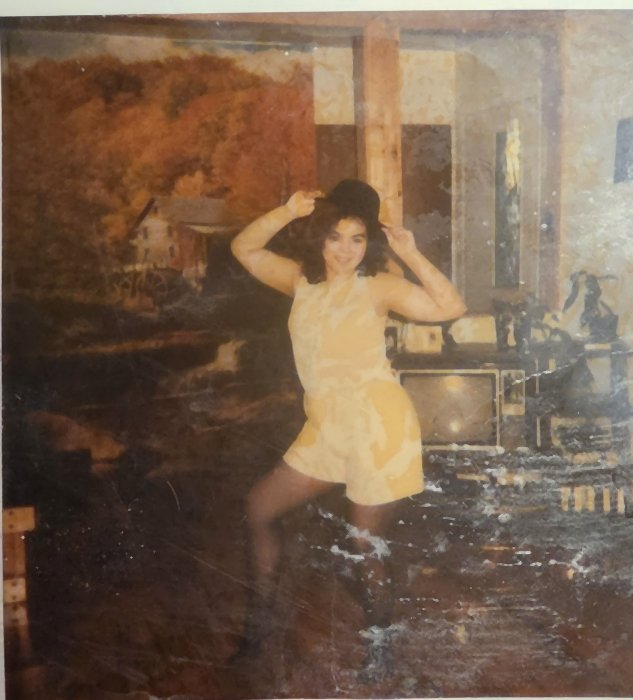
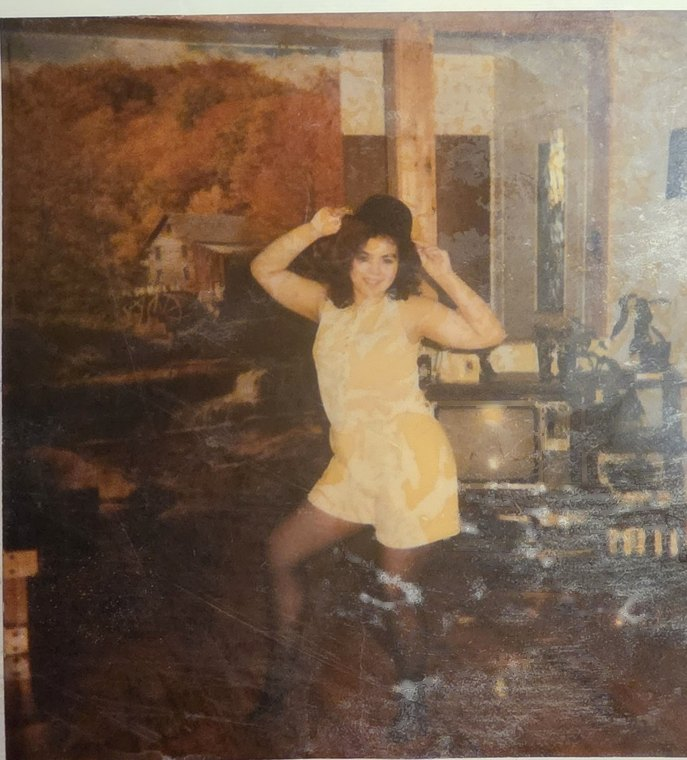
Parcours : photo 12 ans nettoyée (taches) + fondue un peu plus; pastacles fondue davantage et remontée (front visible)

diff --git a/index.html b/index.html
@@ -6404,7 +6404,7 @@
           <a href="#radio">La radio</a>
         </nav>
         <img class="papillon-accent" src="assets/papillon-or.png" alt="" aria-hidden="true" width="920" height="691" loading="lazy" />
-        <style>.parcours-hero-photo{position:absolute;top:0;right:0;height:100%;width:35%;object-fit:cover;object-position:center 22%;opacity:.5;border-radius:16px;-webkit-mask-image:linear-gradient(to right,transparent 0%,black 34%),linear-gradient(to top,transparent 0%,black 18%,black 88%,transparent 100%);-webkit-mask-composite:source-in;mask-image:linear-gradient(to right,transparent 0%,black 34%),linear-gradient(to top,transparent 0%,black 18%,black 88%,transparent 100%);mask-composite:intersect}@media (max-width:760px){.parcours-hero-photo{opacity:.20;width:56%}}</style>
+        <style>.parcours-hero-photo{position:absolute;top:0;right:0;height:100%;width:35%;object-fit:cover;object-position:center 22%;opacity:.44;border-radius:16px;-webkit-mask-image:linear-gradient(to right,transparent 0%,black 34%),linear-gradient(to top,transparent 0%,black 18%,black 88%,transparent 100%);-webkit-mask-composite:source-in;mask-image:linear-gradient(to right,transparent 0%,black 34%),linear-gradient(to top,transparent 0%,black 18%,black 88%,transparent 100%);mask-composite:intersect}@media (max-width:760px){.parcours-hero-photo{opacity:.20;width:56%}}</style>
         <div style="position: relative;">
         <img class="parcours-hero-photo" src="assets/cindy-12-ans-hero.jpg" alt="" aria-hidden="true" loading="lazy" />
         <p class="section-tag">Parcours & distinctions</p>
@@ -6418,7 +6418,7 @@
           </figure>
           <div class="timeline">
           <article class="timeline-row" style="position: relative; z-index: 0;">
-            <div aria-hidden="true" style="position: absolute; inset: 0; z-index: -1; opacity: .30; -webkit-mask-image: radial-gradient(ellipse at center, black 52%, transparent 98%); mask-image: radial-gradient(ellipse at center, black 52%, transparent 98%);"><img src="assets/petite-cindy-boombox-diane-tell.jpg" alt="" style="width: 100%; height: 100%; object-fit: cover; object-position: right center;" /></div>
+            <div aria-hidden="true" style="position: absolute; inset: 0; z-index: -1; opacity: .24; -webkit-mask-image: radial-gradient(ellipse at center, black 36%, transparent 96%); mask-image: radial-gradient(ellipse at center, black 36%, transparent 96%);"><img src="assets/petite-cindy-boombox-diane-tell.jpg" alt="" style="width: 100%; height: 100%; object-fit: cover; object-position: 78% 8%;" /></div>
             <div class="timeline-year" style="position: relative;">5 ans</div>
             <div class="timeline-copy" style="position: relative; z-index: 0;"><p>J’avais cinq ans, pis je faisais déjà des « pastacles » — pas des spectacles, des pastacles! Dans le salon, habillée d’un t-shirt trop grand pour moi qui me faisait une robe, ma brosse comme micro, debout sur la table de cuisine, je chantais du Diane Tell : « Si j’étais un homme... »</p>
 </div>
